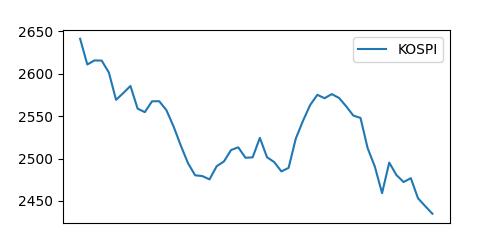
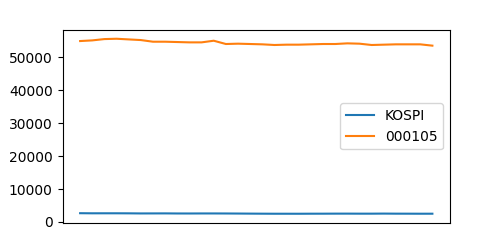
.

diff --git a/stockapp/views.py b/stockapp/views.py
@@ -1,5 +1,6 @@
 import matplotlib.pyplot as plt
 from django.shortcuts import render, HttpResponse
+from sklearn import preprocessing
 import pandas as pd
 import requests
 import os
@@ -20,33 +21,46 @@ def code_crawler(code):
     code_df = code_df[['localTradedAt', 'closePrice', 'compareToPreviousClosePrice', 'openPrice', 'highPrice', 'lowPrice']]
     return code_df
 
-def stock_graph(market, code):
-    market_df = market_crawler(kospi)
+def stock_graph(market, code, normalization):
+    market_df = market_crawler(market)
     market_price = market_df['closePrice']
-
-    code_df = code_crawler(kosdaq,page)
-    code_price = code_df['closePrice']
-
     market_price = market_price.str.replace(',', '').astype(float)
-    code_price = code_price.str.replace(',', '').astype(float)
+
+    if (code != ''):
+        code_df = code_crawler(code)
+        code_price = code_df['closePrice']
+        code_price = code_price.str.replace(',', '').astype(float)
+
+
 
     plt.figure(figsize=(5, 2.5))
-
-    x_market = market_df['localTradedAt']
-    x_market = x_market[::-1]
-    y_market = market_price.to_list()
-
-    x_code = code_df['localTradedAt']
-    x_code = x_code[::-1]
-    y_code = code_price.to_list()
-
 
     ax = plt.gca()
     ax.axes.xaxis.set_visible(False)
 
-    plt.plot(x_market, y_market, label=market)
 
-    plt.plot(x_code, y_code, label=code)
+    x_market = market_df['localTradedAt']
+    x_market = x_market[::-1]
+    y_market = market_price.to_list()
+    y_market_normalization = preprocessing.minmax_scale(y_market)
+
+    if (normalization == 'True'):
+        plt.plot(x_market, y_market_normalization, label=market)
+    else:
+        plt.plot(x_market, y_market, label=market)
+
+
+    if (code != ''):
+            x_code = code_df['localTradedAt']
+            x_code = x_code[::-1]
+            y_code = code_price.to_list()
+            y_code_normalization = preprocessing.minmax_scale(y_code)
+
+            if (normalization == 'True'):
+                plt.plot(x_code, y_code_normalization, label=code)
+            else:
+                plt.plot(x_code, y_code, label=code)
+
     plt.legend(loc=0)
 
     static_dir = os.path.join(os.path.dirname(os.path.abspath(__file__)), 'static')
@@ -59,12 +73,14 @@ def stock_graph(market, code):
 
 def prediction(request):
     market = 'KOSPI'
+    code = ''
 
     if request.GET:
         market = request.GET.get('market', market)
+        code = request.GET.get('code', code)
 
     # 여기에 그래프, 표, 예측 넣기
-    graph=stock_graph(market)
+    graph=stock_graph(market, code, normalization)
 
 
     html_response = f"""
@@ -72,12 +88,16 @@ def prediction(request):
         <a href="https://www.ktb.co.kr/trading/popup/itemPop.jspx" target="_blank"><img src="../static/images/Code.png" alt="코드 종목 조회"></a>
         <p></p>
         <form action="">
-            <select name="stock">
+            <select name="market">
                 <option value="KOSPI">KOSPI</option>
                 <option value="KOSDAQ">KOSDAQ</option>
             </select>
-            
             <input type="text" name="code" placeholder="종목코드">
+            <select name="normalization">
+                <option value="False">기본</option>
+                <option value="True">정규화</option>
+            </select>
+            
             <input type="submit" value="조회">
         </form>
         </div>

diff --git a/stockapp/forms.py b/stockapp/forms.py
@@ -1,3 +1,6 @@
 from django import forms
 
 class StockPredictionForm(forms.Form):
+    market = forms.CharField(label='market')
+    code = forms.CharField(label='code')
+    normalization = forms.CharField(label='normalization')
